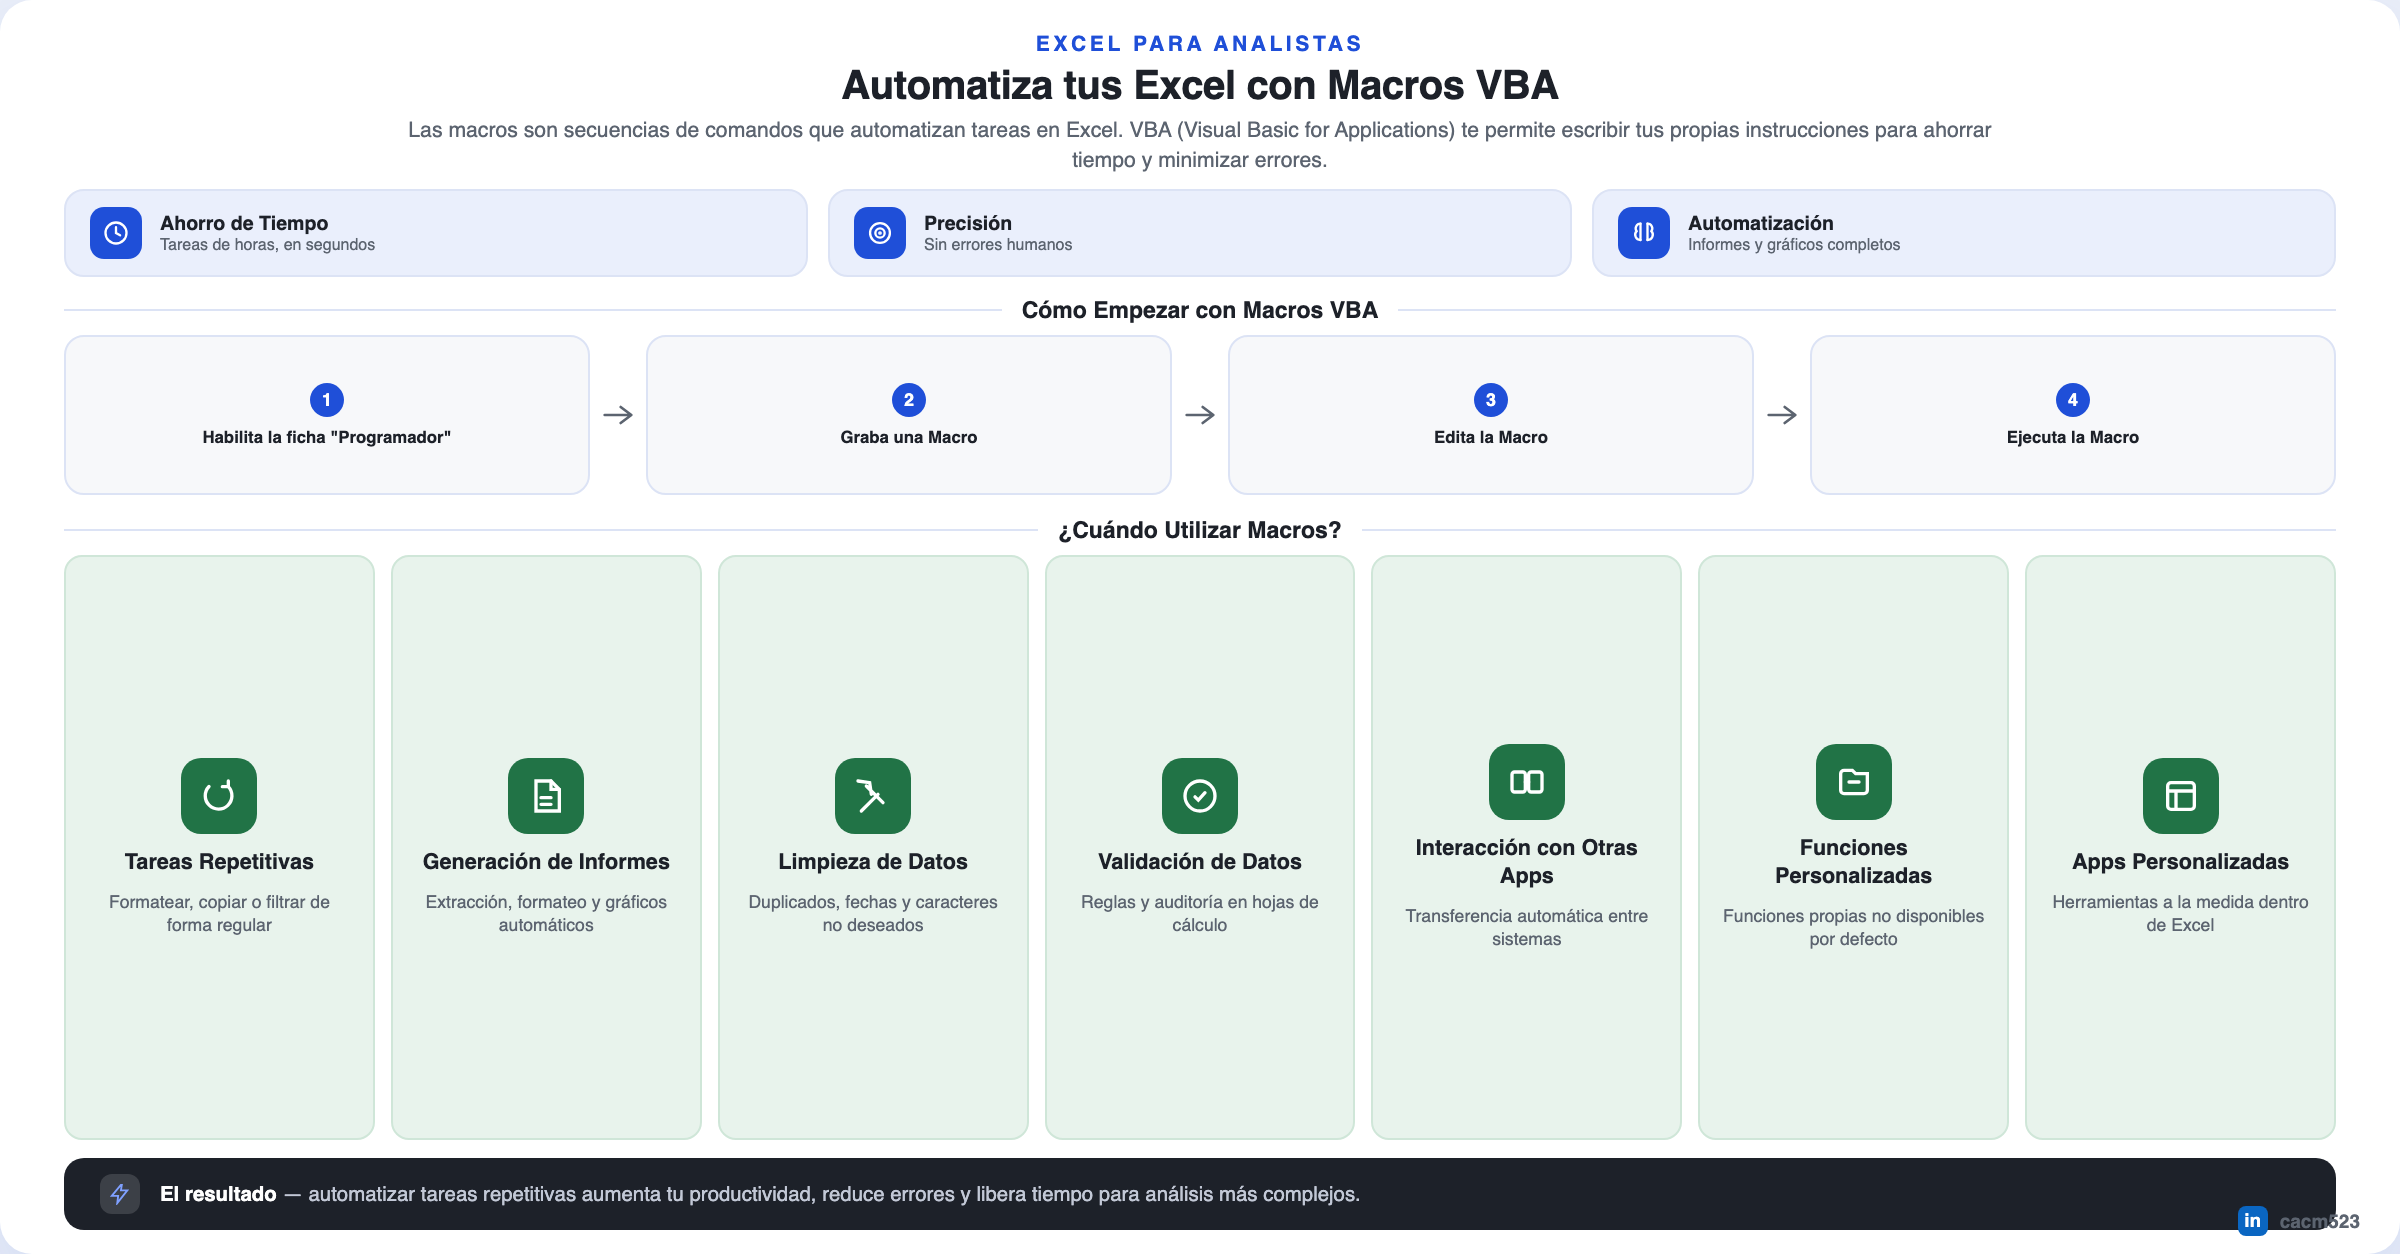
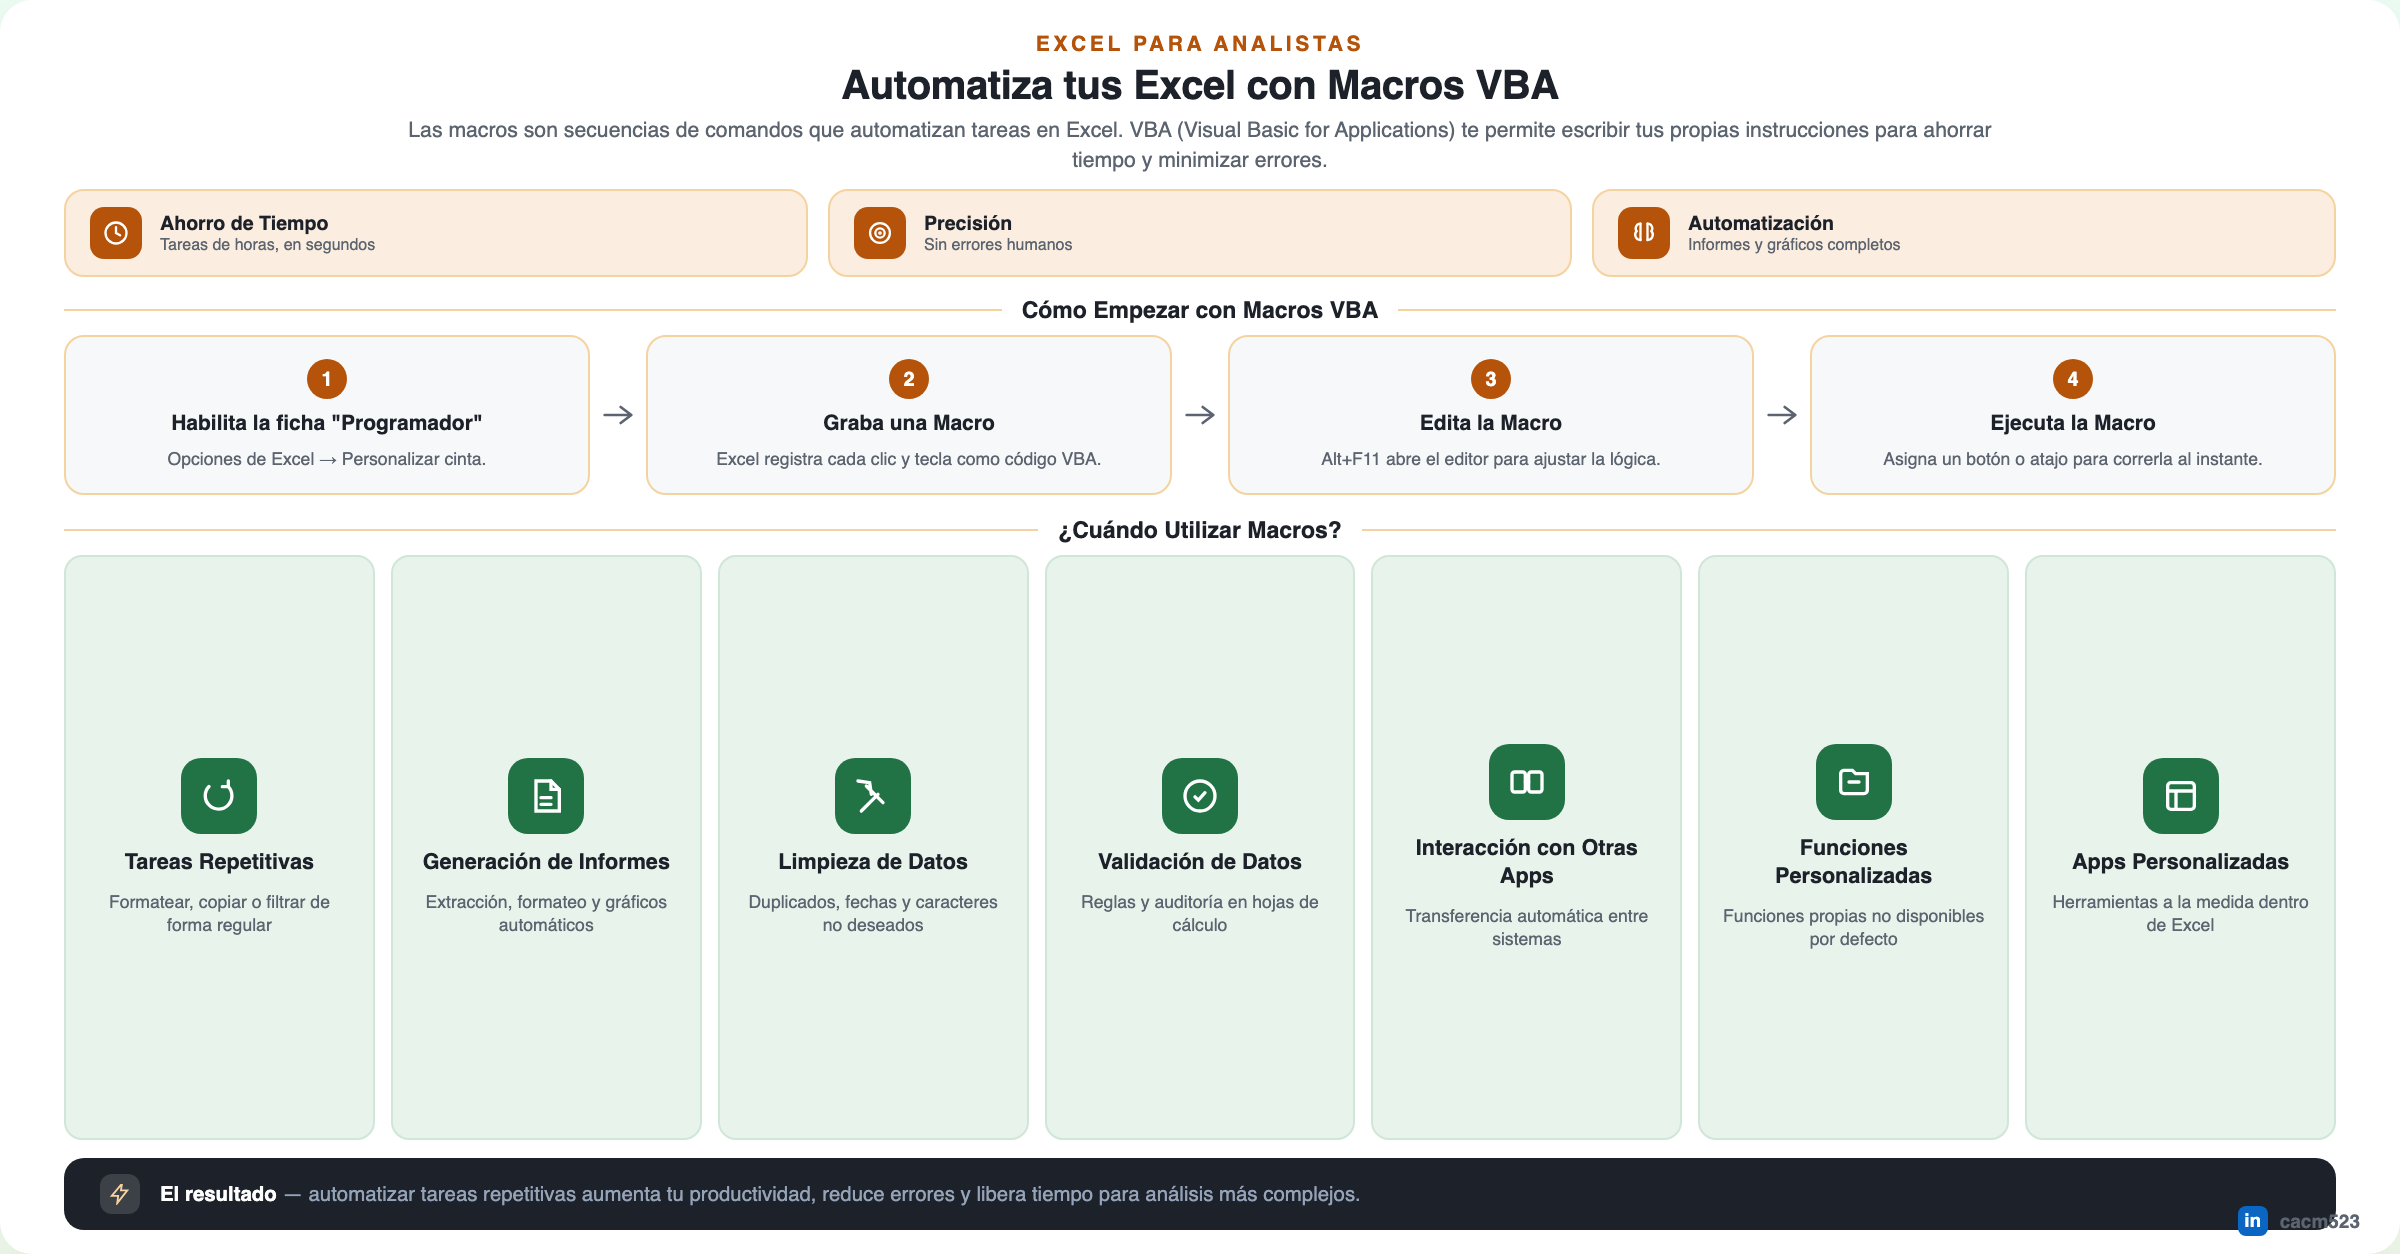
Tanda 11 (programacion): corrige paleta en automatizar-macros-excel
Azul a tierra/verde; rellena espacio vacío en la fila de 4 pasos con contenido real.

diff --git a/Construidos/Excel/automatizar-macros-excel.html b/Construidos/Excel/automatizar-macros-excel.html
@@ -6,7 +6,7 @@
 <meta name="viewport" content="width=device-width, initial-scale=1">
 <style>
   :root{
-    --vba:#1F4FD8; --vba-dark:#173CA8; --vba-pale:#EAEFFC; --line:#DCE3F5;
+    --vba:#B45309; --vba-dark:#92400E; --vba-pale:#FBEEE0; --line:#F5D3A0;
     --excel:#217346; --excel-pale:#E8F3EC;
     --ink:#1D2129; --muted:#5C6470; --white:#FFFFFF; --paper:#F7F8FA;
   }
@@ -14,14 +14,14 @@
   html,body{margin:0;padding:0;}
   body{
     min-height:627px; display:flex; align-items:center; justify-content:center;
-    padding:32px 16px; background:#EBEFF8;
+    padding:32px 16px; background:#ECFDF5;
     font-family: Inter, -apple-system, "Segoe UI", Roboto, Helvetica, Arial, sans-serif;
   }
   .canvas-wrap{ width:100%; max-width:1200px; overflow-x:auto; }
   .canvas{
     position:relative; width:1200px; height:627px; margin:0 auto;
     background:var(--white);
-    border-radius:16px; box-shadow:0 20px 50px rgba(31,79,216,0.15); overflow:hidden;
+    border-radius:16px; box-shadow:0 20px 50px rgba(180,83,9,0.14); overflow:hidden;
     padding:16px 32px 12px; color:var(--ink);
     display:flex; flex-direction:column; min-height:0;
   }
@@ -43,9 +43,10 @@
   .section-title b{ font-size:11.5px; font-weight:800; white-space:nowrap; }
 
   .flow{ display:flex; align-items:stretch; gap:6px; margin-bottom:9px; height:80px; }
-  .fbox{ flex:1; display:flex; flex-direction:column; align-items:center; justify-content:center; gap:5px; border-radius:10px; border:1px solid var(--line); background:var(--paper); padding:6px; text-align:center; }
-  .fbox .n{ width:17px; height:17px; border-radius:50%; background:var(--vba); color:#fff; font-size:9px; font-weight:800; display:flex; align-items:center; justify-content:center; }
-  .fbox span{ font-size:8.4px; font-weight:700; line-height:1.25; }
+  .fbox{ flex:1; display:flex; flex-direction:column; align-items:center; justify-content:center; gap:6px; border-radius:10px; border:1px solid var(--line); background:var(--paper); padding:10px 8px; text-align:center; }
+  .fbox span{ font-size:10.5px; font-weight:700; }
+  .fbox p{ font-size:8.8px; font-weight:500; color:var(--muted); line-height:1.35; margin:0; }
+  .fbox .n{ width:20px; height:20px; border-radius:50%; background:var(--vba); color:#fff; font-size:10px; font-weight:800; display:flex; align-items:center; justify-content:center; }
   .arrow{ flex:none; color:var(--muted); align-self:center; }
 
   .uses{ flex:1; min-height:0; display:grid; grid-template-columns: repeat(7,1fr); gap:8px; }
@@ -60,9 +61,9 @@
     background:var(--ink); color:#EAEFFA; border-radius:10px; padding:8px 18px; font-size:10.2px;
   }
   .ribbon .icon{ width:20px; height:20px; flex:none; border-radius:6px; background:rgba(255,255,255,0.14); display:flex; align-items:center; justify-content:center; }
-  .ribbon .icon svg{ width:11px; height:11px; color:#7FA0FF; }
+  .ribbon .icon svg{ width:11px; height:11px; color:#F5D3A0; }
   .ribbon b{ color:#fff; }
-  .ribbon span{ color:#C2C8D6; }
+  .ribbon span{ color:#94A3B8; }
 
   .footer{ position:absolute; bottom:9px; right:20px; display:flex; align-items:center; gap:6px; }
   .li-badge{ width:15px; height:15px; border-radius:4px; background:#0A66C2; color:#fff; display:flex; align-items:center; justify-content:center; font-size:9.5px; font-weight:800; font-family: Arial, sans-serif; }
@@ -88,13 +89,13 @@
 
     <div class="section-title"><b>Cómo Empezar con Macros VBA</b></div>
     <div class="flow">
-      <div class="fbox"><div class="n">1</div><span>Habilita la ficha "Programador"</span></div>
+      <div class="fbox"><div class="n">1</div><span>Habilita la ficha "Programador"</span><p>Opciones de Excel → Personalizar cinta.</p></div>
       <svg class="arrow" width="16" height="12" viewBox="0 0 24 16"><path d="M2 8h18M14 2l8 6-8 6" fill="none" stroke="currentColor" stroke-width="2" stroke-linecap="round" stroke-linejoin="round"/></svg>
-      <div class="fbox"><div class="n">2</div><span>Graba una Macro</span></div>
+      <div class="fbox"><div class="n">2</div><span>Graba una Macro</span><p>Excel registra cada clic y tecla como código VBA.</p></div>
       <svg class="arrow" width="16" height="12" viewBox="0 0 24 16"><path d="M2 8h18M14 2l8 6-8 6" fill="none" stroke="currentColor" stroke-width="2" stroke-linecap="round" stroke-linejoin="round"/></svg>
-      <div class="fbox"><div class="n">3</div><span>Edita la Macro</span></div>
+      <div class="fbox"><div class="n">3</div><span>Edita la Macro</span><p>Alt+F11 abre el editor para ajustar la lógica.</p></div>
       <svg class="arrow" width="16" height="12" viewBox="0 0 24 16"><path d="M2 8h18M14 2l8 6-8 6" fill="none" stroke="currentColor" stroke-width="2" stroke-linecap="round" stroke-linejoin="round"/></svg>
-      <div class="fbox"><div class="n">4</div><span>Ejecuta la Macro</span></div>
+      <div class="fbox"><div class="n">4</div><span>Ejecuta la Macro</span><p>Asigna un botón o atajo para correrla al instante.</p></div>
     </div>
 
     <div class="section-title"><b>¿Cuándo Utilizar Macros?</b></div>
